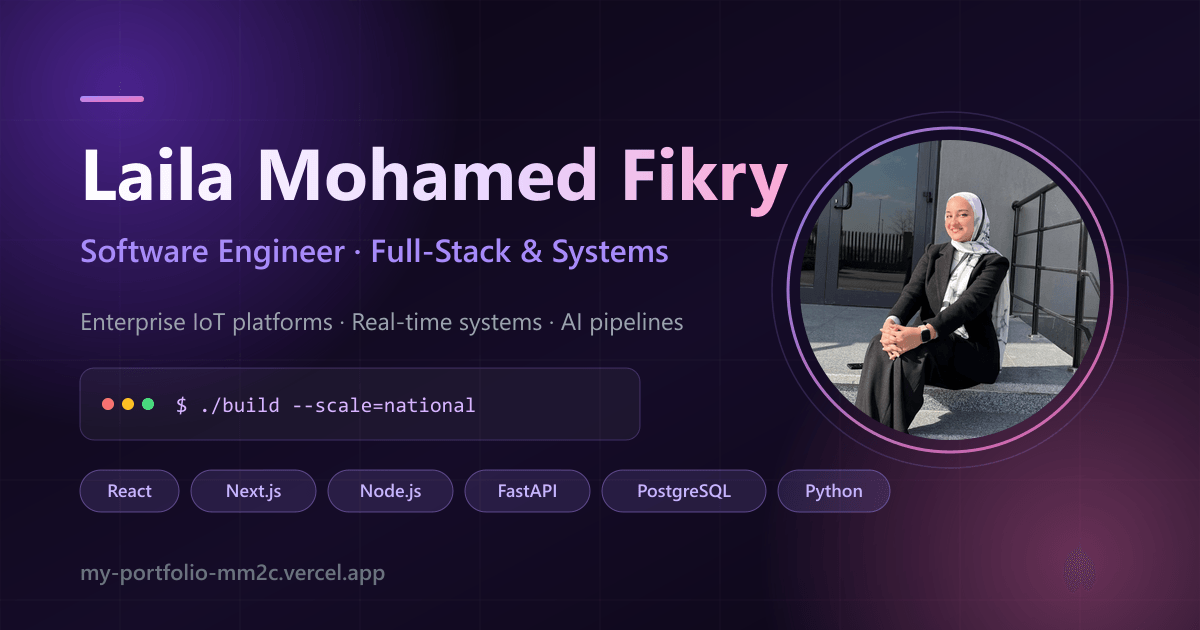
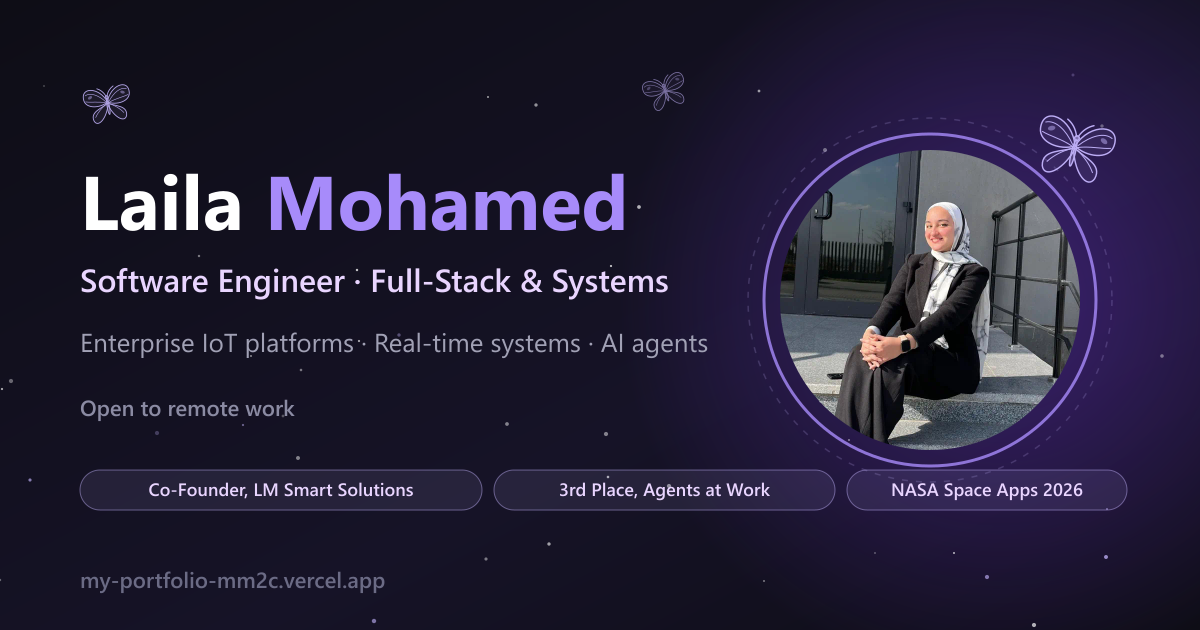
feat: web analytics, LinkedIn recommendations, new social cards
- Vercel Web Analytics with a few event hooks (resume, Let's talk, project
  and LM-MS demo links). Page views show which projects are read.
- Two verbatim LinkedIn recommendations from Banque Misr mentors/teammate.
- Ink & Night social cards: home plus one per project, generated by
  scripts/generate-social-cards.mjs; per-project og:image points at them.

diff --git a/src/components/Testimonials.tsx b/src/components/Testimonials.tsx
@@ -15,6 +15,8 @@ type Testimonial = {
   link?: string;
   /** Where the review lives, e.g. 'Mostaql'. */
   source?: string;
+  /** Shown instead of a verify link when the text is a LinkedIn recommendation. */
+  note?: string;
 };
 
 /**
@@ -26,6 +28,22 @@ type Testimonial = {
  * words, keeping the original language plus a translation when it isn't English.
  */
 const testimonials: Testimonial[] = [
+  {
+    // Verbatim from a LinkedIn recommendation dated 15 September 2026.
+    quote:
+      "It was a pleasure mentoring Laila during her Data Governance internship at Banque Misr. She was truly one of the standout interns, demonstrating great commitment, enthusiasm, and eagerness to learn.\n\nHer positive energy, collaborative spirit, and drive to grow make her a valuable addition to any team. I'm confident that Laila is ready for the professional world and will make a strong impact wherever she goes.\n\nWishing her continued success in her career journey!",
+    name: 'Alaa Ghaly',
+    role: "Assistant Manager, Credit Assessment at Banque Misr. Laila's mentor",
+    note: 'LinkedIn recommendation, September 2026',
+  },
+  {
+    // Verbatim from a LinkedIn recommendation dated 14 September 2026.
+    quote:
+      "Leila stood out as one of the most proactive interns in Banque Misr's Data Governance Internship Program. She was recognized among the program's six exceptional interns and was a member of the winning use case squad. Her initiative, enthusiasm for learning, and collaborative approach made her a valued contributor. I look forward to seeing her continued growth and future achievements.",
+    name: 'Amr Elharony',
+    role: 'Fintech Delivery Lead. Worked with Laila on the same team',
+    note: 'LinkedIn recommendation, September 2026',
+  },
   {
     // Verbatim from the client's public Mostaql review of the engagement.
     quote:
@@ -58,7 +76,7 @@ const Testimonials = () => {
             viewport={{ once: true }}
             className="font-poppins font-black text-4xl sm:text-5xl lg:text-6xl mb-6 text-heading tracking-tight"
           >
-            Client <span className="text-transparent bg-clip-text bg-gradient-to-r from-purple-600 to-indigo-600">Feedback</span>
+            Kind <span className="text-transparent bg-clip-text bg-gradient-to-r from-purple-600 to-indigo-600">Words</span>
           </motion.h2>
           <motion.p
             initial={{ opacity: 0, y: 20 }}
@@ -67,7 +85,7 @@ const Testimonials = () => {
             transition={{ delay: 0.1 }}
             className="font-inter text-lg text-body max-w-2xl mx-auto"
           >
-            What the people I've built for say about working together.
+            From mentors, teammates and clients I've worked with.
           </motion.p>
         </div>
 
@@ -94,7 +112,7 @@ const Testimonials = () => {
               <blockquote
                 lang={item.quoteLang}
                 dir={item.quoteLang === 'ar' ? 'rtl' : undefined}
-                className={`text-heading leading-loose text-lg sm:text-xl font-medium ${
+                className={`whitespace-pre-line text-heading leading-loose text-lg sm:text-xl font-medium ${
                   item.quoteLang === 'ar' ? 'text-right' : 'font-inter'
                 }`}
               >
@@ -117,6 +135,12 @@ const Testimonials = () => {
                   <div className="font-poppins font-bold text-heading">{item.name}</div>
                   <div className="font-inter text-sm text-subtle">{item.role}</div>
                 </div>
+                {!item.link && item.note && (
+                  <span className="inline-flex items-center gap-1.5 text-xs font-bold text-primary bg-primary/10 border border-primary/20 px-3 py-1.5 rounded-lg">
+                    <BadgeCheck size={14} />
+                    {item.note}
+                  </span>
+                )}
                 {item.link && (
                   <a
                     href={item.link}

diff --git a/src/components/Hero.tsx b/src/components/Hero.tsx
@@ -4,6 +4,7 @@ import { motion } from 'framer-motion';
 import { Typewriter } from 'react-simple-typewriter';
 import ButterflyField, { Butterfly } from './ButterflyField';
 import MagneticButton from './MagneticButton';
+import { trackEvent } from '@/lib/track';
 
 const roles = [
   'Software Engineer',
@@ -67,7 +68,7 @@ const Hero = () => {
                 size="lg"
                 className="bg-primary text-white hover:bg-primary/90 font-bold px-6 sm:px-8 py-6 sm:py-7 rounded-2xl shadow-xl shadow-primary/25 transition-all duration-300 w-full sm:w-auto h-14 sm:h-16 text-base sm:text-lg"
               >
-                <a href="#projects" className="flex items-center justify-center gap-2 w-full">
+                <a href="#projects" onClick={() => trackEvent('hero_my_work')} className="flex items-center justify-center gap-2 w-full">
                   <span className="whitespace-nowrap">My Work</span>
                   <ArrowDown size={18} className="shrink-0" />
                 </a>
@@ -82,6 +83,7 @@ const Hero = () => {
               >
                 <a
                   href={`mailto:laila.mohamed.fikry@gmail.com?subject=${encodeURIComponent("Let's talk")}`}
+                  onClick={() => trackEvent('lets_talk_click')}
                   className="flex items-center justify-center gap-2 w-full"
                 >
                   <Mail size={18} className="shrink-0" />
@@ -101,6 +103,7 @@ const Hero = () => {
                     a download recruiters on phones could not preview. */}
                 <a
                   href="/Laila_Mohamed_CV.pdf"
+                  onClick={() => trackEvent('resume_click')}
                   target="_blank"
                   rel="noopener"
                   className="flex items-center justify-center gap-2 w-full"

diff --git a/src/components/Experience.tsx b/src/components/Experience.tsx
@@ -2,6 +2,7 @@ import { Briefcase, Calendar, PlayCircle, Mail } from 'lucide-react';
 import { motion } from 'framer-motion';
 import { roles } from '@/data/experience';
 import InkUnderline from './InkUnderline';
+import { trackEvent } from '@/lib/track';
 
 const MAIL_BODY =
   'Hi Laila,\n\nI watched the LM-MS demo and would like more details.\n\nName / company:\nWhy I am asking:\n';
@@ -108,6 +109,7 @@ const Experience = () => {
                       <div className={`flex flex-wrap items-center gap-3 mb-6 ${isEven ? 'md:justify-end' : 'justify-start'}`}>
                         <a
                           href={exp.demoVideo}
+                          onClick={() => trackEvent('lm_ms_demo_click')}
                           target="_blank"
                           rel="noopener noreferrer"
                           className="inline-flex items-center gap-1.5 text-sm font-bold text-primary bg-primary/10 px-4 py-2 rounded-xl border border-primary/20 hover:bg-primary/20 transition-colors"
@@ -117,6 +119,7 @@ const Experience = () => {
                         </a>
                         <a
                           href={`mailto:laila.mohamed.fikry@gmail.com?subject=${encodeURIComponent('LM-MS details request')}&body=${encodeURIComponent(MAIL_BODY)}`}
+                          onClick={() => trackEvent('lm_ms_details_request')}
                           className="inline-flex items-center gap-1.5 text-sm font-bold text-heading px-4 py-2 rounded-xl border border-subtle hover:bg-surface-overlay transition-colors"
                         >
                           <Mail size={16} />

diff --git a/src/pages/ProjectDetail.tsx b/src/pages/ProjectDetail.tsx
@@ -17,6 +17,7 @@ import { Button } from '@/components/ui/button';
 import { projects } from '@/data/projects';
 import ProjectGallery from '@/components/ProjectGallery';
 import ShareLinks from '@/components/ShareLinks';
+import { trackEvent } from '@/lib/track';
 
 /**
  * One project. Route: /projects/:slug
@@ -203,7 +204,7 @@ const ProjectDetail = () => {
                   asChild
                   className="h-12 w-full rounded-xl font-bold shadow-md shadow-primary/25 sm:w-auto sm:flex-1 sm:min-w-[190px]"
                 >
-                  <a href={project.live} target="_blank" rel="noopener noreferrer">
+                  <a href={project.live} target="_blank" rel="noopener noreferrer" onClick={() => trackEvent('project_live_click', { project: project.slug })}>
                     {project.liveLabel ?? 'Live Demo'}
                     <ExternalLink size={16} className="ml-2" />
                   </a>
@@ -217,7 +218,7 @@ const ProjectDetail = () => {
                   variant="outline"
                   className="h-12 w-full rounded-xl border-subtle bg-surface font-bold text-heading hover:bg-surface-overlay sm:w-auto sm:flex-1 sm:min-w-[190px]"
                 >
-                  <a href={link.url} target="_blank" rel="noopener noreferrer">
+                  <a href={link.url} target="_blank" rel="noopener noreferrer" onClick={() => trackEvent('project_link_click', { project: project.slug, label: link.label })}>
                     {link.label}
                     <ExternalLink size={16} className="ml-2" />
                   </a>

diff --git a/src/App.tsx b/src/App.tsx
@@ -7,6 +7,7 @@ import Index from "./pages/Index";
 import NotFound from "./pages/NotFound";
 import ErrorBoundary from './components/ErrorBoundary';
 import PageLoader from './components/PageLoader';
+import { Analytics } from '@vercel/analytics/react';
 
 // Sub-pages sit off the main route — load them on demand.
 const Writing = React.lazy(() => import('./pages/Writing'));
@@ -23,6 +24,7 @@ const App = () => {
       <ReactLenis root options={{ anchors: { offset: -80 } }}>
         <ErrorBoundary>
           <TooltipProvider>
+            <Analytics />
             <BrowserRouter>
               <React.Suspense fallback={<PageLoader />}>
                 <Routes>

diff --git a/src/lib/track.ts b/src/lib/track.ts
@@ -1,0 +1,15 @@
+import { track } from '@vercel/analytics';
+
+/**
+ * Records a named interaction in Vercel Web Analytics. Page views (including
+ * which project pages are opened) are collected automatically; these events add
+ * the actions a recruiter takes. Analytics must never break the page, so every
+ * failure, including a blocker removing the script, is swallowed.
+ */
+export const trackEvent = (name: string, data?: Record<string, string | number | boolean>) => {
+  try {
+    track(name, data);
+  } catch {
+    /* ignore */
+  }
+};
